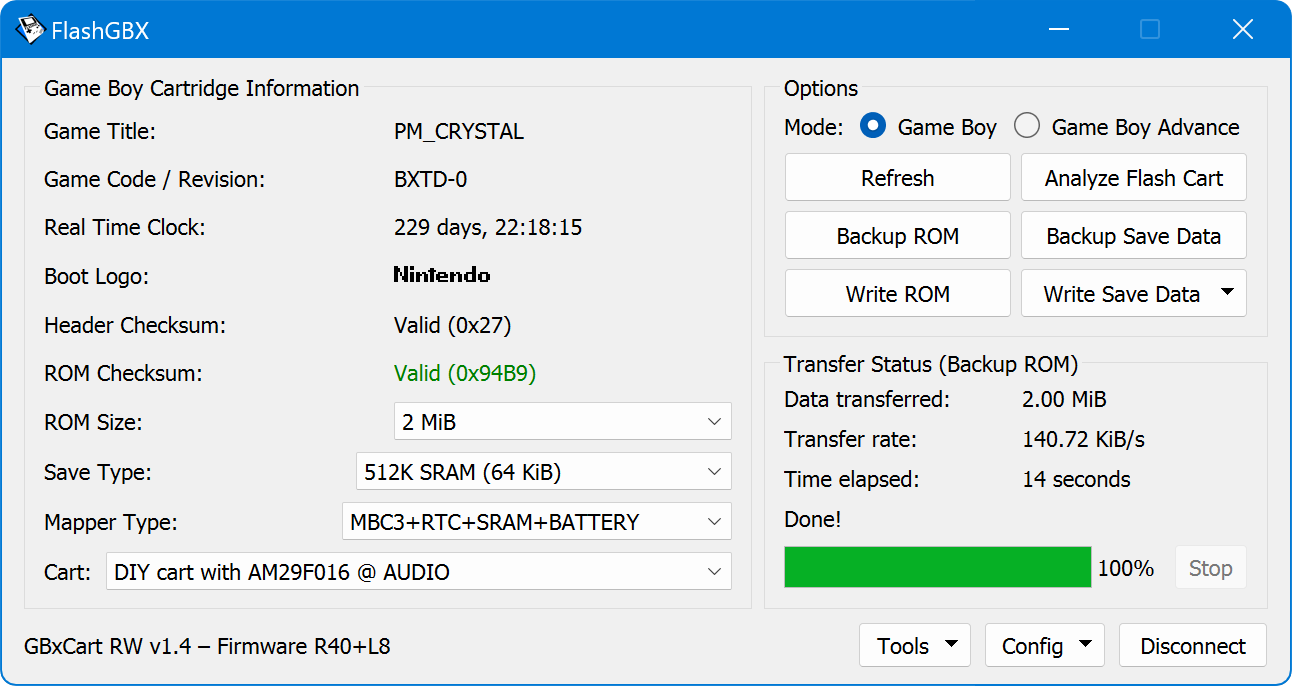
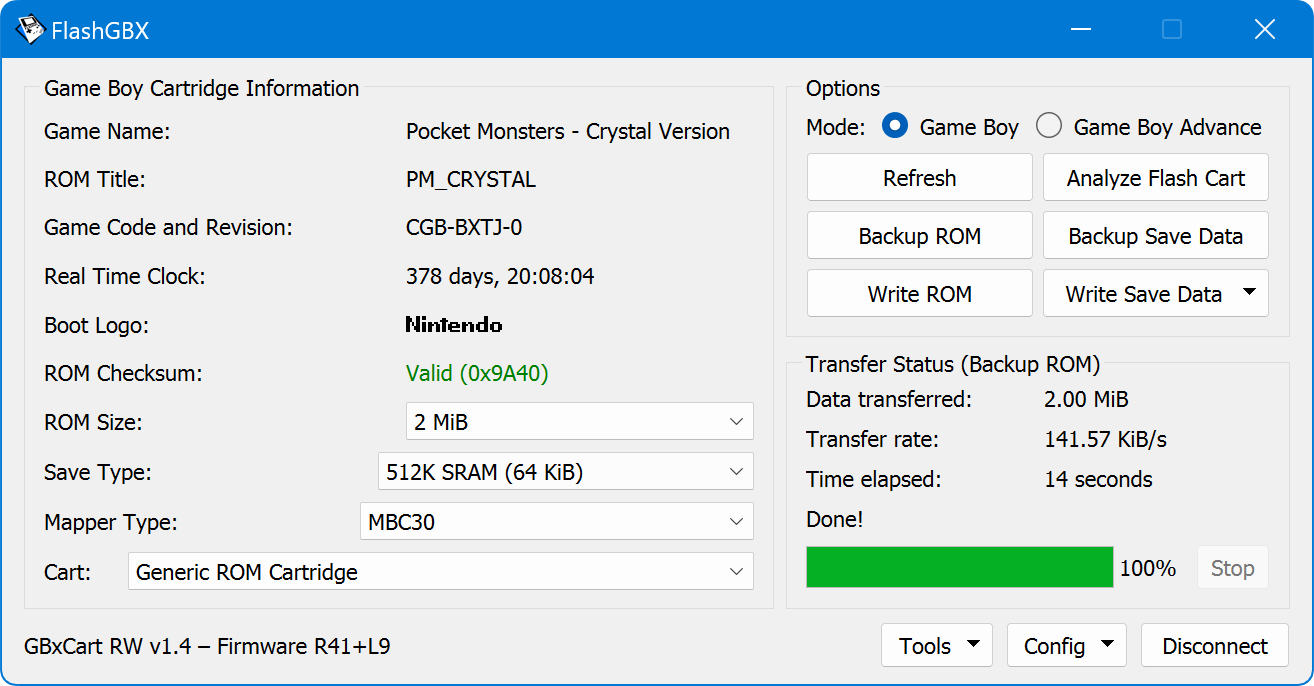
3.25

diff --git a/FlashGBX/FlashGBX_GUI.py b/FlashGBX/FlashGBX_GUI.py
@@ -1411,7 +1411,7 @@ class FlashGBX_GUI(QtWidgets.QWidget):
 		
 		rtc = False
 		if self.CONN.INFO["has_rtc"]:
-			if self.CONN.GetMode() == "DMG" and mbc == 0x10 and not self.CONN.IsClkConnected():
+			if self.CONN.GetMode() == "DMG" and mbc in (0x10, 0x110) and not self.CONN.IsClkConnected():
 				rtc = False
 			else:
 				msg = "A Real Time Clock cartridge was detected. Do you want the cartridge’s Real Time Clock register values also to be saved?"
@@ -1546,9 +1546,9 @@ class FlashGBX_GUI(QtWidgets.QWidget):
 		rtc = False
 		rtc_advance = False
 		if not test and self.CONN.INFO["has_rtc"]:
-			if self.CONN.GetMode() == "DMG" and mbc == 0x10 and not self.CONN.IsClkConnected():
+			if self.CONN.GetMode() == "DMG" and mbc in (0x10, 0x110) and not self.CONN.IsClkConnected():
 				rtc = False
-			elif (self.CONN.GetMode() == "DMG" and ((mbc == 0xFD and (filesize == save_size + 0x28 or erase)) or (mbc == 0xFE and (filesize == save_size + 0xC or erase)) or (self.CONN.IsClkConnected() and mbc == 0x10 and filesize == save_size + 0x30 or erase))) or \
+			elif (self.CONN.GetMode() == "DMG" and ((mbc == 0xFD and (filesize == save_size + 0x28 or erase)) or (mbc == 0xFE and (filesize == save_size + 0xC or erase)) or (self.CONN.IsClkConnected() and mbc in (0x10, 0x110) and filesize == save_size + 0x30 or erase))) or \
 			     (self.CONN.GetMode() == "AGB" and (filesize == save_size + 0x10 or erase)):
 				msg = "A Real Time Clock cartridge was detected. Do you want the Real Time Clock register values to be also written?"
 				cb = QtWidgets.QCheckBox("&Adjust RTC", checked=True)

diff --git a/FlashGBX/FlashGBX_CLI.py b/FlashGBX/FlashGBX_CLI.py
@@ -1075,7 +1075,7 @@ class FlashGBX_CLI():
 		if self.CONN.GetMode() == "AGB":
 			print("Using Save Type “{:s}”.".format(Util.AGB_Header_Save_Types[save_type]))
 		elif self.CONN.GetMode() == "DMG":
-			if rtc and header["mapper_raw"] in (0x10, 0xFE): # RTC of MBC3, HuC-3
+			if rtc and header["mapper_raw"] in (0x10, 0x110, 0xFE): # RTC of MBC3, HuC-3
 				print("Real Time Clock register values will also be written if applicable/possible.")
 
 		try:

diff --git a/FlashGBX/Mapper.py b/FlashGBX/Mapper.py
@@ -267,9 +267,6 @@ class DMG_MBC3(DMG_MBC):
 	
 	def HasRTC(self):
 		dprint("Checking for RTC")
-		if self.MBC_ID != 16:
-			dprint("No RTC because wrong MBC ID", self.MBC_ID)
-			return False
 		self.EnableRAM(enable=False)
 		self.EnableRAM(enable=True)
 		self.LatchRTC()

diff --git a/FlashGBX/Util.py b/FlashGBX/Util.py
@@ -9,7 +9,7 @@ from enum import Enum
 APPNAME = "FlashGBX"
 VERSION_PEP440 = "3.25"
 VERSION = "v{:s}".format(VERSION_PEP440)
-VERSION_TIMESTAMP = 1681494424
+VERSION_TIMESTAMP = 1681495829
 DEBUG = False
 DEBUG_LOG = []
 APP_PATH = ""
